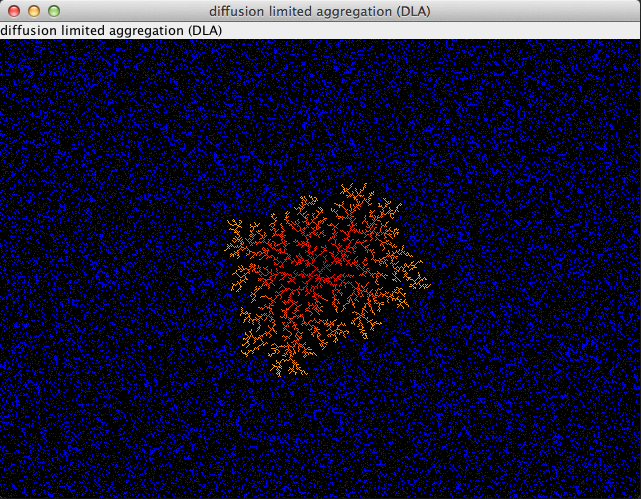
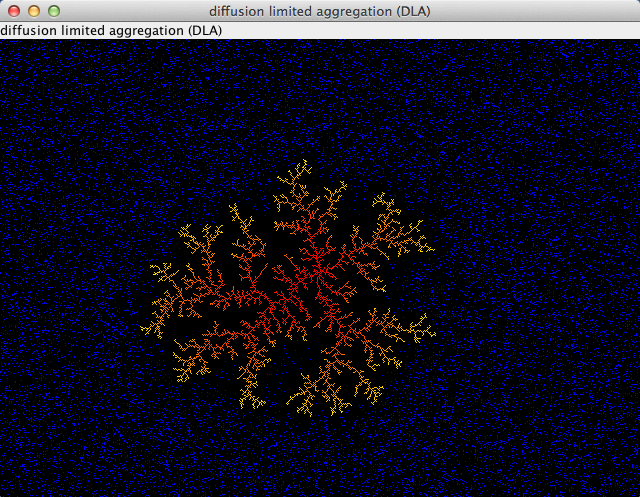
updated documentation

diff --git a/src/main/java/org/woehlke/simulation/diffusion/limited/aggregation/model/Dendrite.java b/src/main/java/org/woehlke/simulation/diffusion/limited/aggregation/model/Dendrite.java
@@ -38,16 +38,6 @@ public class Dendrite {
         }
     }
 
-    public boolean isOutside(Point particle) {
-        Point[] neighbours=particle.getNeighbourhood(dimensions);
-        for(Point neighbour:neighbours){
-            if(worldMap[neighbour.getX()][neighbour.getY()]>0){
-              return false;
-            }
-        }
-        return true;
-    }
-
     public int getAgeForPixel(int x,int y){
         return worldMap[x][y];
     }

diff --git a/src/main/java/org/woehlke/simulation/diffusion/limited/aggregation/control/ControllerThread.java b/src/main/java/org/woehlke/simulation/diffusion/limited/aggregation/control/ControllerThread.java
@@ -16,7 +16,7 @@ public class ControllerThread extends Thread
     private Particles particles;
     private WorldCanvas canvas;
 
-    private int THREAD_SLEEP_TIME = 75;
+    private int THREAD_SLEEP_TIME = 50;
     private Boolean goOn;
 
     public ControllerThread(WorldCanvas canvas, Particles particles) {

diff --git a/src/main/java/org/woehlke/simulation/diffusion/limited/aggregation/model/Particles.java b/src/main/java/org/woehlke/simulation/diffusion/limited/aggregation/model/Particles.java
@@ -14,7 +14,7 @@ import java.util.Random;
  */
 public class Particles {
 
-    private final static int NUMBER_OF_PARTICLES = 50000;
+    private final static int NUMBER_OF_PARTICLES = 30000;
 
     private Point worldDimensions;
 
